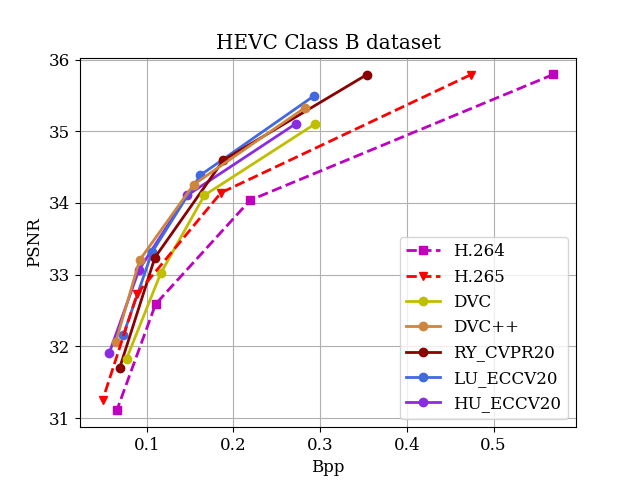
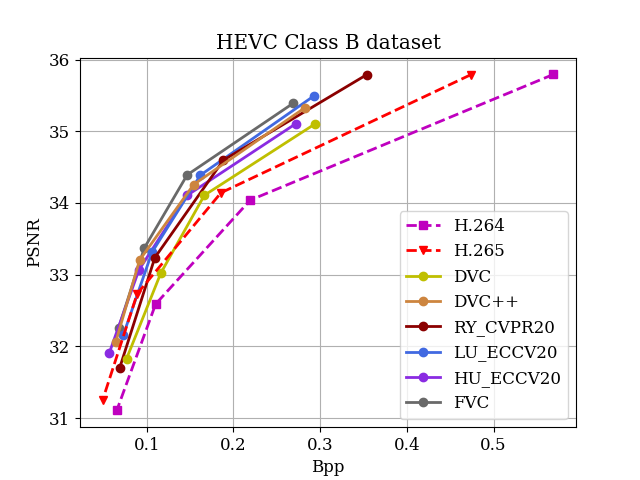
Add FVC performance

diff --git a/Benchmark/draw_HEVC.py b/Benchmark/draw_HEVC.py
@@ -13,8 +13,9 @@ def drawhevc(hclass):
     LineWidth = 2
 
     if hclass == 'B':
+        bpp, psnr = [0.269053, 0.146596, 0.097074, 0.067416], [35.391955, 34.391431, 33.370759, 32.255203]
+        FVC, = plt.plot(bpp, psnr, "c-o", color="dimgrey", linewidth=LineWidth, label='FVC')
 
-        
         bpp, psnr = [0.271843, 0.146412, 0.090925, 0.056782], [35.104963, 34.104735, 33.066283, 31.911116]
         RaFC, = plt.plot(bpp, psnr, "c-o", color="blueviolet", linewidth=LineWidth, label='HU_ECCV20')
         
@@ -47,6 +48,9 @@ def drawhevc(hclass):
         msssim = [0.975606114, 0.966591679, 0.956803834, 0.942605916]
         h265, = plt.plot(bpp, psnr, "r--v", linewidth=LineWidth, label='H.265')
     elif hclass == 'C':
+        bpp, psnr = [0.350834, 0.247527, 0.174569, 0.121681], [33.482413, 32.367214, 31.096299, 29.633528]
+        FVC, = plt.plot(bpp, psnr, "c-o", color="dimgrey", linewidth=LineWidth, label='FVC')
+
         bpp, psnr = [0.345057, 0.244922, 0.16963, 0.107338], [32.58818, 31.563223, 30.362042, 28.849785]
         RaFC, = plt.plot(bpp, psnr, "c-o", color="blueviolet", linewidth=LineWidth, label='HU_ECCV20')
 
@@ -79,6 +83,9 @@ def drawhevc(hclass):
         msssim = [0.983231578, 0.974819694, 0.962047889, 0.941757279]
         h265, = plt.plot(bpp, psnr, "r--v", linewidth=LineWidth, label='H.265')
     elif hclass == 'D':
+        bpp, psnr = [0.382361, 0.275732, 0.195583, 0.136572], [33.687894, 32.427037, 31.009378, 29.455373]
+        FVC, = plt.plot(bpp, psnr, "c-o", color="dimgrey", linewidth=LineWidth, label='FVC')
+
         bpp, psnr = [0.37856, 0.274477, 0.192981, 0.121238], [32.642264, 31.520746, 30.215077, 28.655284]
         RaFC, = plt.plot(bpp, psnr, "c-o", color="blueviolet", linewidth=LineWidth, label='HU_ECCV20')
         
@@ -112,6 +119,9 @@ def drawhevc(hclass):
         msssim = [0.987591187, 0.98046689, 0.969045592, 0.951302461]
         h265, = plt.plot(bpp, psnr, "r--v", linewidth=LineWidth, label='H.265')
     elif hclass == 'E':
+        bpp, psnr = [0.104291, 0.06196, 0.046346, 0.034603], [40.031664, 38.871796, 37.75919, 36.411769]
+        FVC, = plt.plot(bpp, psnr, "c-o", color="dimgrey", linewidth=LineWidth, label='FVC')
+
         bpp, psnr = [0.102672, 0.059125, 0.041676, 0.028598], [39.933601, 38.773299, 37.673584, 36.296838]
         RaFC, = plt.plot(bpp, psnr, "c-o", color="blueviolet", linewidth=LineWidth, label='HU_ECCV20')
         
@@ -148,9 +158,9 @@ def drawhevc(hclass):
     if not os.path.exists(prefix):
         os.makedirs(prefix)    
     if hclass != 'E':
-        plt.legend(handles=[h264, h265, DVC, DVCp, RY, LU, RaFC], loc=4)
+        plt.legend(handles=[h264, h265, DVC, DVCp, RY, LU, RaFC, FVC], loc=4)
     else:
-        plt.legend(handles=[h264, h265, DVC, DVCp, LU, RaFC], loc=4)
+        plt.legend(handles=[h264, h265, DVC, DVCp, LU, RaFC, FVC], loc=4)
 
     plt.grid()
     plt.xlabel('Bpp')
@@ -162,6 +172,8 @@ def drawhevc(hclass):
 
     # ----------------------------------------MSSSIM-------------------------------------------------
     if hclass == 'B':
+        bpp, msssim = [0.443496, 0.261679, 0.142189, 0.08852], [0.98591, 0.98055, 0.972843, 0.964454]
+        FVC, = plt.plot(bpp, msssim, "c-o", color="dimgrey", linewidth=LineWidth, label='FVC')
         
         bpp, msssim = [0.286055, 0.171946, 0.104357, 0.062172], [0.978676, 0.9724, 0.96476, 0.953966]
         RaFC, = plt.plot(bpp, msssim, "c-o", color="blueviolet", linewidth=LineWidth, label='HU_ECCV20')
@@ -196,9 +208,11 @@ def drawhevc(hclass):
         h265, = plt.plot(bpp, msssim, "r--v", linewidth=LineWidth, label='H.265')
 
     elif hclass == 'C':
+        bpp, msssim = [0.375906, 0.248239, 0.162061, 0.112118], [0.987824, 0.982816, 0.975108, 0.964439]
+        FVC, = plt.plot(bpp, msssim, "c-o", color="dimgrey", linewidth=LineWidth, label='FVC')
 
-        bpp, psnr = [0.358622, 0.243691, 0.163198, 0.094394], [0.984432, 0.978034, 0.968136, 0.950041]
-        RaFC, = plt.plot(bpp, psnr, "c-o", color="blueviolet", linewidth=LineWidth, label='HU_ECCV20')
+        bpp, msssim = [0.358622, 0.243691, 0.163198, 0.094394], [0.984432, 0.978034, 0.968136, 0.950041]
+        RaFC, = plt.plot(bpp, msssim, "c-o", color="blueviolet", linewidth=LineWidth, label='HU_ECCV20')
 
         bpp, msssim = [0.1263825, 0.1769925, 0.258575,  0.4006125], [0.95457, 0.9681725, 0.978235, 0.9829975]
         LU, = plt.plot(bpp, msssim, "c-o", color="royalblue", linewidth=LineWidth, label='LU_ECCV20')
@@ -231,9 +245,11 @@ def drawhevc(hclass):
         msssim = [0.983231578, 0.974819694, 0.962047889, 0.941757279]
         h265, = plt.plot(bpp, msssim, "r--v", linewidth=LineWidth, label='H.265')
     elif hclass == 'D':
+        bpp, msssim = [0.309253, 0.210086, 0.139261, 0.097161], [0.989619, 0.984708, 0.976946, 0.966873]
+        FVC, = plt.plot(bpp, msssim, "c-o", color="dimgrey", linewidth=LineWidth, label='FVC')
         
-        bpp, psnr = [0.365465, 0.255783, 0.176039, 0.102085], [0.987527, 0.981579, 0.972727, 0.958684]
-        RaFC, = plt.plot(bpp, psnr, "c-o", color="blueviolet", linewidth=LineWidth, label='HU_ECCV20')
+        bpp, msssim = [0.365465, 0.255783, 0.176039, 0.102085], [0.987527, 0.981579, 0.972727, 0.958684]
+        RaFC, = plt.plot(bpp, msssim, "c-o", color="blueviolet", linewidth=LineWidth, label='HU_ECCV20')
 
         bpp, msssim = [0.1341975, 0.190485, 0.2775625,0.4304825], [0.9600475, 0.9738, 0.98289, 0.98739]
         LU, = plt.plot(bpp, msssim, "c-o", color="royalblue", linewidth=LineWidth, label='LU_ECCV20')
@@ -265,9 +281,11 @@ def drawhevc(hclass):
         msssim = [0.987591187, 0.98046689, 0.969045592, 0.951302461]
         h265, = plt.plot(bpp, msssim, "r--v", linewidth=LineWidth, label='H.265')
     elif hclass == 'E':
+        bpp, msssim = [0.175973, 0.093687, 0.052362, 0.035589], [0.992617, 0.989891, 0.986464, 0.982571]
+        FVC, = plt.plot(bpp, msssim, "c-o", color="dimgrey", linewidth=LineWidth, label='FVC')
         
-        bpp, psnr = [0.138196, 0.078092, 0.04724, 0.029643], [0.990446, 0.988069, 0.985217, 0.980766]
-        RaFC, = plt.plot(bpp, psnr, "c-o", color="blueviolet", linewidth=LineWidth, label='HU_ECCV20')
+        bpp, msssim = [0.138196, 0.078092, 0.04724, 0.029643], [0.990446, 0.988069, 0.985217, 0.980766]
+        RaFC, = plt.plot(bpp, msssim, "c-o", color="blueviolet", linewidth=LineWidth, label='HU_ECCV20')
 
         bpp, msssim = [0.11462,0.069586667,0.050683333,0.037183333], [0.988766667, 0.9864, 0.982756667, 0.976416667]
         LU, = plt.plot(bpp, msssim, "c-o", color="royalblue", linewidth=LineWidth, label='LU_ECCV20')
@@ -300,9 +318,9 @@ def drawhevc(hclass):
         
     savepathmsssim = prefix + '/' + 'HEVCClass_' + hclass + '_msssim'# + '.eps'
     if hclass != 'E':
-        plt.legend(handles=[h264, h265, DVC, DVCp, RY, LU, RaFC], loc=4)
+        plt.legend(handles=[h264, h265, DVC, DVCp, RY, LU, RaFC, FVC], loc=4)
     else:
-        plt.legend(handles=[h264, h265, DVC, DVCp, LU, RaFC], loc=4)
+        plt.legend(handles=[h264, h265, DVC, DVCp, LU, RaFC, FVC], loc=4)
 
     plt.grid()
     plt.xlabel('Bpp')

diff --git a/Benchmark/draw_HEVCA.py b/Benchmark/draw_HEVCA.py
@@ -11,6 +11,9 @@ def drawhevca():
     font = {'family': 'serif', 'weight': 'normal', 'size': 12}
     matplotlib.rc('font', **font)
     LineWidth = 2
+    
+    bpp, psnr = [0.219236, 0.148642, 0.10431, 0.074957], [36.281859, 35.056085, 33.816517, 32.509582]
+    FVC, = plt.plot(bpp, psnr, "c-o", color="dimgrey", linewidth=LineWidth, label='FVC')
 
     bpp, psnr = [0.252517, 0.172729, 0.115206, 0.087225], [36.445944, 35.251347, 33.906883, 32.385862]
     RaFC, = plt.plot(bpp, psnr, "c-o", color="blueviolet", linewidth=LineWidth, label='HU_ECCV20')
@@ -33,7 +36,7 @@ def drawhevca():
     print(prefix)
     if not os.path.exists(prefix):
         os.makedirs(prefix)
-    plt.legend(handles=[h264, h265, DVC, RaFC], loc=4)
+    plt.legend(handles=[h264, h265, DVC, RaFC, FVC], loc=4)
 
     plt.grid()
     plt.xlabel('Bpp')
@@ -44,6 +47,10 @@ def drawhevca():
     plt.clf()
 
     # ----------------------------------------MSSSIM-------------------------------------------------
+    
+    bpp, msssim = [0.37802, 0.23392, 0.138017, 0.09185], [0.990572, 0.986502, 0.980454, 0.973596]
+    FVC, = plt.plot(bpp, msssim, "c-o", color="dimgrey", linewidth=LineWidth, label='FVC')
+
     bpp, msssim = [0.302868, 0.194612, 0.128278, 0.075894], [0.986527, 0.981522, 0.97537, 0.966448]
     RaFC, = plt.plot(bpp, msssim, "c-o", color="blueviolet", linewidth=LineWidth, label='HU_ECCV20')
 
@@ -63,7 +70,7 @@ def drawhevca():
 
     savepathmsssim = prefix + '/' + 'HEVCClass_A_msssim'# + '.eps'
     
-    plt.legend(handles=[h264, h265, DVC, RaFC], loc=4)
+    plt.legend(handles=[h264, h265, DVC, RaFC, FVC], loc=4)
 
     plt.grid()
     plt.xlabel('Bpp')

diff --git a/Benchmark/draw_uvg.py b/Benchmark/draw_uvg.py
@@ -18,6 +18,9 @@ LineWidth = 2
 # msssim = [0.9568914285714286, 0.9618171428571429, 0.9699657142857142, 0.9762942857142859]
 # MLVC, = plt.plot(bpp, psnr, "m-o", color='darkorange', linewidth=LineWidth, label='M-LVC')
 
+bpp, psnr = [0.150682, 0.089331, 0.061964, 0.04496], [38.029177, 37.062886, 36.041041, 34.854808]
+FVC, = plt.plot(bpp, psnr, "c-o", color="dimgrey", linewidth=LineWidth, label='FVC')
+
 
 bpp, psnr = [0.040222, 0.059522, 0.090525, 0.155768], [34.36477, 35.594595, 36.651909, 37.74166]
 rafc, = plt.plot(bpp, psnr, 'c-*', color="blueviolet", linewidth=LineWidth, label='HU_ECCV20')
@@ -73,6 +76,8 @@ plt.clf()
 # msssim = [0.9568914285714286, 0.9618171428571429, 0.9699657142857142, 0.9762942857142859]
 # MLVC, = plt.plot(bpp, msssim, "m-o", color='darkorange', linewidth=LineWidth, label='M-LVC')
 
+bpp, psnr = [0.363749, 0.227332, 0.134257, 0.085478], [0.986765, 0.982525, 0.976374, 0.969245]
+FVC, = plt.plot(bpp, psnr, "c-o", color="dimgrey", linewidth=LineWidth, label='FVC')
 
 bpp, psnr = [0.218918, 0.130343, 0.077172, 0.04779], [0.978714, 0.972417, 0.965527, 0.956974]
 rafc, = plt.plot(bpp, psnr, 'c-*', color="blueviolet", linewidth=LineWidth, label='HU_ECCV20')

diff --git a/Benchmark/draw_vtl.py b/Benchmark/draw_vtl.py
@@ -11,6 +11,9 @@ LineWidth = 2
 font = {'family': 'serif', 'weight': 'normal', 'size': 12}
 matplotlib.rc('font', **font)
 
+bpp, psnr = [0.306566, 0.195756, 0.133961, 0.092266], [35.019422, 33.60735, 32.281443, 30.989942]
+FVC, = plt.plot(bpp, psnr, "c-o", color="dimgrey", linewidth=LineWidth, label='FVC')
+
 
 bpp, psnr = [0.296787, 0.19001, 0.126534, 0.080851], [34.303688, 33.036154, 31.737594, 30.490966]
 rafc, = plt.plot(bpp, psnr, 'c-*', color="blueviolet", linewidth=LineWidth, label='HU_ECCV20')
@@ -50,6 +53,8 @@ plt.clf()
 # msssim = [0.9718572754, 0.9711699173, 0.96866567, 0.9670768429, 0.9659088446, 0.961264922]
 # eccv, = plt.plot(bpp, msssim, "b-*", linewidth=LineWidth, label='Wu_ECCV')
 
+bpp, psnr = [0.292538, 0.189176, 0.113552, 0.072098], [0.989218, 0.984481, 0.97661, 0.966557]
+FVC, = plt.plot(bpp, psnr, "c-o", color="dimgrey", linewidth=LineWidth, label='FVC')
 
 bpp, msssim = [0.291837, 0.189759, 0.121654, 0.070671], [0.984102, 0.978341, 0.97124, 0.959966]
 rafc, = plt.plot(bpp, msssim, 'c-*', color="blueviolet", linewidth=LineWidth, label='HU_ECCV20')

diff --git a/Benchmark/draw_mcl.py b/Benchmark/draw_mcl.py
@@ -11,6 +11,9 @@ LineWidth = 2
 font = {'family': 'serif', 'weight': 'normal', 'size': 12}
 matplotlib.rc('font', **font)
 
+bpp, psnr = [0.183169, 0.112944, 0.079046, 0.055994], [38.473279, 37.360721, 36.239858, 35.001531]
+FVC, = plt.plot(bpp, psnr, "c-o", color="dimgrey", linewidth=LineWidth, label='FVC')
+
 bpp, psnr = [0.177528, 0.105804, 0.069346, 0.044944], [38.044085, 36.90718, 35.749727, 34.440707]
 rafc, = plt.plot(bpp, psnr, 'c-*', color="blueviolet", linewidth=LineWidth, label='HU_ECCV20')
     
@@ -60,6 +63,9 @@ plt.savefig(savepathpsnr)
 plt.clf()
 
 # ----------------------------------------MSSSIM-------------------------------------------------
+
+bpp, psnr = [0.327997, 0.205193, 0.122516, 0.078993], [0.988995, 0.985406, 0.980099, 0.973502]
+FVC, = plt.plot(bpp, psnr, "c-o", color="dimgrey", linewidth=LineWidth, label='FVC')
 
 
 bpp, psnr = [0.21493, 0.131528, 0.081933, 0.051843], [0.98331, 0.978267, 0.972588, 0.964108]

diff --git a/Benchmark/README.md b/Benchmark/README.md
@@ -10,9 +10,10 @@
 - <font color="#008000">EA_CVPR20</font> : [Scale-space Flow for End-to-end Optimized Video Compression](https://openaccess.thecvf.com/content_CVPR_2020/papers/Agustsson_Scale-Space_Flow_for_End-to-End_Optimized_Video_Compression_CVPR_2020_paper.pdf)
 - <font color="#8B0000">RY_CVPR20</font> : [Learning for Video Compression with Hierarchical Quality and Recurrent Enhancement](https://arxiv.org/pdf/2003.01966.pdf)
 - <font color="#8A2BE2">HU_ECCV20</font> : [Improving Deep Video Compression by Resolution-adaptive Flow Coding](http://www.ecva.net/papers/eccv_2020/papers_ECCV/papers/123470188.pdf)
+- <font color="#696969">FVC</font> : [FVC: A New Framework towards Deep Video Compression in Feature Space](https://arxiv.org/pdf/2105.09600.pdf)
 - <font color="#4169E1">LU_ECCV20</font> : [Content Adaptive and Error Propagation Aware Deep Video Compression](https://arxiv.org/pdf/2003.11282.pdf)
 - <font color="#ff8c0f">M-LVC</font> : [M-LVC: Multiple Frames Prediction for Learned Video Compression](https://arxiv.org/abs/2004.10290) (questionable)
-   
+
 
 ## HEVC Class A dataset
 <!-- ![](HEVCresults/HEVCClass_A_psnr.png)![](HEVCresults/HEVCClass_A_msssim.png) -->
@@ -43,16 +44,16 @@
 
 BDBR results (%) when compared with H.264. Negative values in BDBR indicate bit-rate savings.
 
-| Datasets             | H.265  | DVC    | DVC++  | AD_ICCV19 | RY_CVPR20 | EA_CVPR20 | LU_ECCV20 | HU_ECCV20 |
-|:-----------------    | :----: | :----: | :----: | :-------: | :-------: | :-------: | :-------: | :-------: |
-| HEVC Class A Dataset | -14.75 | -24.53 |   -    |           |           |           |           | -32.32    |
-| HEVC Class B Dataset | -21.95 | -18.18 | -35.75 |           |  -28.94   |           |  -33.55   | -33.49    |
-| HEVC Class C Dataset | -14.48 |  1.60  | -14.62 |           |  -4.83    |           |  -17.70   | -14.30    |
-| HEVC Class D Dataset | -12.40 | -1.57  | -18.69 |           |  -21.47   |           |  -19.35   | -15.13    |
-| HEVC Class E Dataset | -30.81 | -26.91 | -42.24 |           |           |           |  -36.85   | -44.60    |
-| UVG Dataset          | -26.07 | -19.39 | -39.91 |  -47.39   |           |  -32.40   |  -30.52   | -35.76    |
-| MCL Dataset          | -23.86 | -14.51 |   -    |  -8.89    |           |  -24.74   |  -20.62   | -35.01    |
-| VTL Dataset          | -12.31 | -21.93 |   -    |  -12.25   |           |           |  -27.06   | -30.04    |
+| Datasets             | H.265  | DVC    | DVC++  | AD_ICCV19 | RY_CVPR20 | EA_CVPR20 | LU_ECCV20 | HU_ECCV20 | FVC    |
+|:-----------------    | :----: | :----: | :----: | :-------: | :-------: | :-------: | :-------: | :-------: | :----: |
+| HEVC Class A Dataset | -14.75 | -24.53 |        |           |           |           |           | -32.32    | -38.62 |
+| HEVC Class B Dataset | -21.95 | -18.18 | -35.75 |           |  -28.94   |           |  -33.55   | -33.49    | -39.72 |
+| HEVC Class C Dataset | -14.48 |  1.60  | -14.62 |           |  -4.83    |           |  -17.70   | -14.30    | -26.40 |
+| HEVC Class D Dataset | -12.40 | -1.57  | -18.69 |           |  -21.47   |           |  -19.35   | -15.13    | -28.31 |
+| HEVC Class E Dataset | -30.81 | -26.91 | -42.24 |           |           |           |  -36.85   | -44.60    | -42.16 |
+| UVG Dataset          | -26.07 | -19.39 | -39.91 |  -47.39   |           |  -32.40   |  -30.52   | -35.76    | -46.28 |
+| MCL Dataset          | -23.86 | -14.51 |        |  -8.89    |           |  -24.74   |  -20.62   | -35.01    | -40.52 |
+| VTL Dataset          | -12.31 | -21.93 |        |  -12.25   |           |           |  -27.06   | -30.04    | -36.53 |
 
 
 ## Setting of H.264 and H.265
